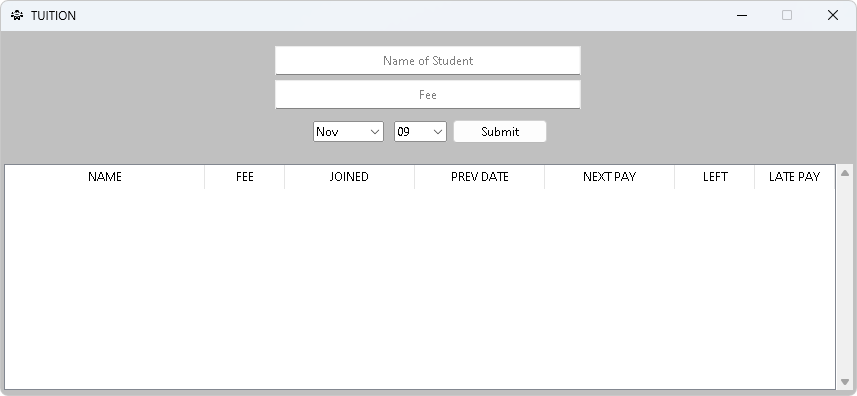
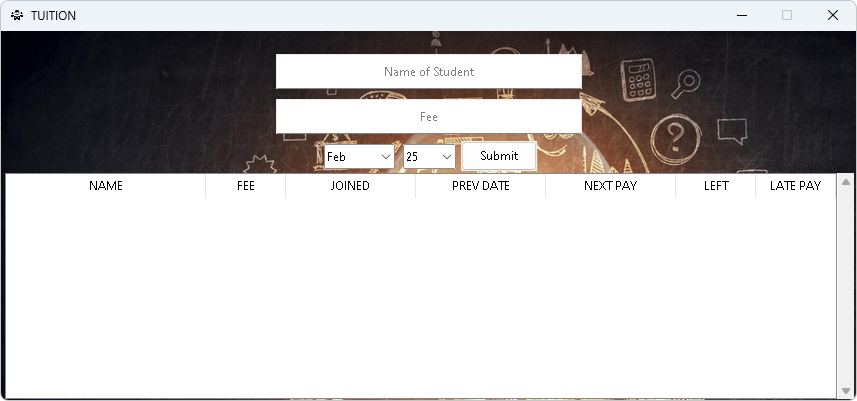
Updated UI

diff --git a/PROJECT GUIs/TUTION/Tution.py b/PROJECT GUIs/TUTION/Tution.py
@@ -12,7 +12,7 @@ from tkinter import messagebox
 from configparser import ConfigParser
 from pystray._base import MenuItem as item
 import pystray._win32
-from PIL import Image
+from PIL import Image, ImageTk
 from dateutil.relativedelta import relativedelta
 
 
@@ -83,6 +83,7 @@ class _Entry:
 class Tuition:
     def __init__(self):
         self.tag = 0
+        self.CanvasWidth = 857
         self.UpdateTimer = None
         self.WindowState = 'normal'
         self.IsAddedFirstTime = False
@@ -95,32 +96,35 @@ class Tuition:
         self.master.withdraw()
         self.master.title('TUITION')
 
-        self.add_details_frame = Frame(self.master, bg='silver')
+        self.CoverImage = Image.open(resource_path('cover.jpg'))
+        self.CoverImage.thumbnail((1000, 1000), Image.Resampling.LANCZOS)
+        self.CoverImage = ImageTk.PhotoImage(self.CoverImage)
 
-        self.entry_name = _Entry(self.add_details_frame, 'EntryName.TEntry', 'Name of Student', 50)
-        self.entry_name.Entry.pack(ipady=4, pady=5)
+        self.Canvas = Canvas(self.master, width=855, height=364, highlightthickness=0)
+        self.Canvas.pack(fill=BOTH, expand=True)
 
-        self.entry_fee = _Entry(self.add_details_frame, 'EntryFee.TEntry', 'Fee', 50, True)
-        self.entry_fee.Entry.pack(ipady=4)
+        self.CoverTitle = self.Canvas.create_image(0, 0, image=self.CoverImage, anchor='nw')
+
+        self.entry_name = _Entry(self.master, 'EntryName.TEntry', 'Name of Student', 50)
+        self.Canvas.create_window(self.CanvasWidth // 2, 40, window=self.entry_name.Entry, anchor=CENTER, height=35)
+
+        self.entry_fee = _Entry(self.master, 'EntryFee.TEntry', 'Fee', 50, True)
+        self.Canvas.create_window(self.CanvasWidth // 2, 85, window=self.entry_fee.Entry, anchor=CENTER, height=35)
 
         self.months = list(calendar.month_abbr)[1:]
-        self.date_frame = Frame(self.add_details_frame, bg='silver')
-        self.month_combobox = ttk.Combobox(self.date_frame, values=self.months, width=8, height=12)
-        self.month_combobox.pack(side=LEFT, padx=5)
+        self.month_combobox = ttk.Combobox(self.master, values=self.months, width=8, height=12)
+        self.Canvas.create_window(self.CanvasWidth // 2 - 70, 125, window=self.month_combobox, anchor=CENTER, height=25)
 
-        self.day_combobox = ttk.Combobox(self.date_frame, width=5, height=12)
-        self.day_combobox.pack(side=LEFT, padx=5)
+        self.day_combobox = ttk.Combobox(self.master, width=5, height=12)
+        self.Canvas.create_window(self.CanvasWidth // 2, 125, window=self.day_combobox, anchor=CENTER, height=25)
 
         self.SubmitButtonStyle = ttk.Style()
-        self.SubmitButtonStyle.configure('Submit.TButton', background='silver')
-        self.submit_button = ttk.Button(self.date_frame, text='Submit', cursor='hand2', style='Submit.TButton', command=self.submit_button_command)
-        self.submit_button.pack(ipadx=10)
-
-        self.date_frame.pack(pady=10)
-        self.add_details_frame.pack(pady=10)
+        self.SubmitButtonStyle.configure('Submit.TButton')
+        self.submit_button = ttk.Button(self.master, text='Submit', cursor='hand2', style='Submit.TButton', command=self.submit_button_command)
+        self.Canvas.create_window(self.CanvasWidth // 2 + 70, 125, window=self.submit_button, anchor=CENTER, height=30)
 
         self.TreeFrame = Frame(self.master, bg='silver')
-        self.TreeFrame.pack(padx=3)
+        self.Canvas.create_window(428, 255, window=self.TreeFrame, anchor=CENTER)
 
         self.Columns = ['NAME', 'FEE', 'JOINED', 'PREV DATE', 'NEXT PAY', 'LEFT', 'LATE PAY']
         self.Tree = ttk.Treeview(self.TreeFrame, show='headings', columns=self.Columns)
@@ -176,7 +180,7 @@ class Tuition:
         char = event.keysym
 
         if char not in ['BackSpace', 'Delete', 'Left', 'Right']:
-            if _bool is True:
+            if _bool:
                 month_combo_get = self.month_combobox.get().strip() + event.char
 
                 if len(month_combo_get) > 3:
@@ -224,7 +228,7 @@ class Tuition:
             if selections:
                 self.Tree.selection_remove(selections)
 
-        widget.focus()
+        widget.focus_set()
 
     def ClickedAtEmptySpace(self, event=None):
         '''
